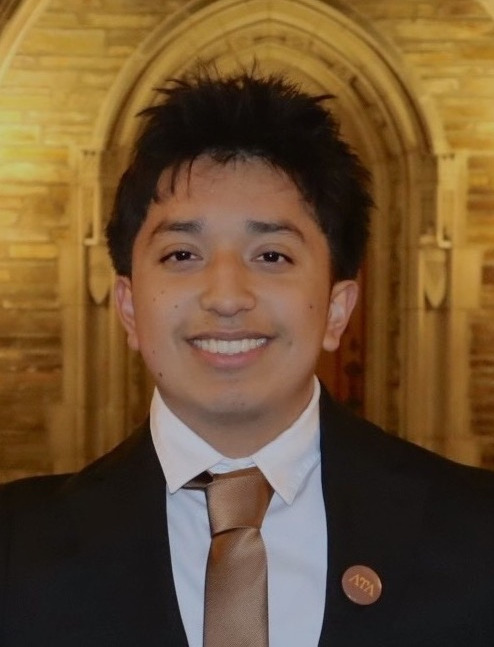
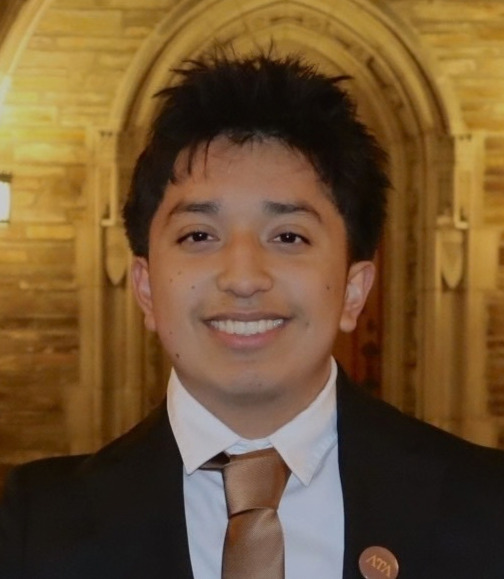
update freshman reps

diff --git a/src/app/data/team-data.ts b/src/app/data/team-data.ts
@@ -60,7 +60,7 @@ export const execBoard: ExecMember[] = [
   {
     name: "Alfonso Barbaran",
     position: "Academic Excellence Chair",
-    image: "/images/leadership/2026-2027/alfonso.jpeg",
+    image: "/images/leadership/2026-2027/alfonso.jpg",
     major: "CivE",
     year: "'28",
     email: "aeb357@cornell.edu",
@@ -69,7 +69,7 @@ export const execBoard: ExecMember[] = [
   {
     name: "Jonathan Lopez Flores",
     position: "Webmaster",
-    image: "/images/leadership/2026-2027/jonathan.jpg",
+    image: "/images/leadership/2026-2027/jonathan.png",
     imagePosition: "top",
     major: "CS",
     year: "'29",
@@ -79,7 +79,7 @@ export const execBoard: ExecMember[] = [
   {
     name: "Emilio Ceballos",
     position: "Advice Chair",
-    image: "/images/leadership/2026-2027/emilio.JPEG",
+    image: "/images/leadership/2026-2027/emilio.png",
     major: "MechE",
     year: "'26",
     email: "eac288@cornell.edu",
@@ -115,7 +115,7 @@ export const execBoard: ExecMember[] = [
   {
     name: "Emely Benavides",
     position: "Alumni Relations Chair",
-    image: "/images/leadership/2026-2027/emily.jpeg",
+    image: "/images/leadership/2026-2027/emily.jpg",
     major: "MechE",
     year: "'28",
     email: "eb828@cornell.edu",
@@ -124,21 +124,28 @@ export const execBoard: ExecMember[] = [
   {
     name: "Alain Huerta-Salas",
     position: "Treasurer",
-    image: "/images/leadership/2026-2027/alain.jpeg",
+    image: "/images/leadership/2026-2027/alain.jpg",
     major: "CivE",
     year: "'27",
     email: "aoh24@cornell.edu",
     linkedin: "https://www.linkedin.com/in/alain-huerta-salas-683569316/",
   },
   {
-    name: "You?",
+    name: "Chrystopher Guevara",
     position: "Freshman Representative",
-    image: "/images/icons/usericon.png",
-    major: "Major",
+    image: "/images/leadership/2026-2027/chrystopher.jpg",
+    major: "EnvE",
     year: "'30",
-    email: "",
-    linkedin: "",
-    applyLink: "https://forms.gle/ZwASkD6E32MhLbnu9",
-    applyCta: "Interested? Apply Here",
+    email: "cg785@cornell.edu",
+    linkedin: "https://www.linkedin.com/in/chrystopher-guevara-4a417b310/",
+  },
+  {
+    name: "Vania Pachas",
+    position: "Freshman Representative",
+    image: "/images/leadership/2026-2027/vania.jpg",
+    major: "ECE",
+    year: "'30",
+    email: "vap64@cornell.edu",
+    linkedin: "https://www.linkedin.com/in/vania-pachas/",
   },
 ];
